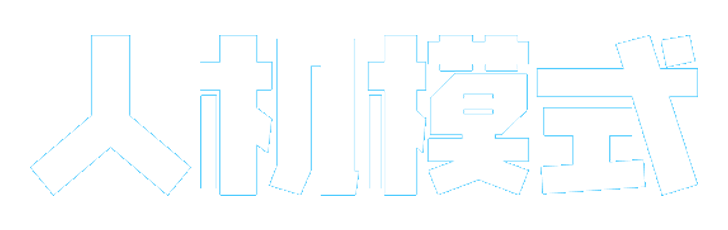
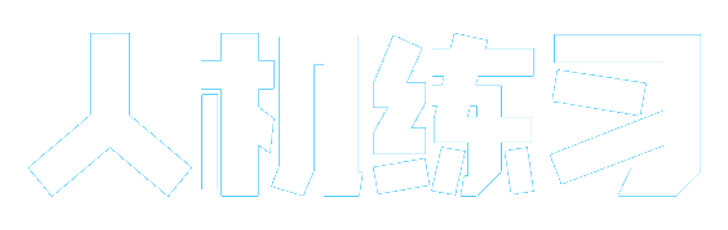
添加艺术字标题，调整返回按钮位置

diff --git a/src/1037suduko_wxgame/js/default.thm.js b/src/1037suduko_wxgame/js/default.thm.js
@@ -288,7 +288,7 @@ var egret = window.egret;window.skins=window.skins||{};
 		
 		this.height = 1136;
 		this.width = 640;
-		this.elementsContent = [this._Image1_i(),this._Label1_i(),this.quit_to_PC_i()];
+		this.elementsContent = [this._Image1_i(),this._Image2_i(),this.quit_to_PC_i()];
 	}
 	var _proto = challengeSkin.prototype;
 
@@ -304,17 +304,14 @@ var egret = window.egret;window.skins=window.skins||{};
 		t.y = -157;
 		return t;
 	};
-	_proto._Label1_i = function () {
-		var t = new eui.Label();
-		t.anchorOffsetX = 0;
-		t.anchorOffsetY = 0;
-		t.height = 130;
-		t.text = "挑战模式";
-		t.textAlign = "center";
-		t.verticalAlign = "middle";
-		t.width = 204;
-		t.x = 222;
-		t.y = 204;
+	_proto._Image2_i = function () {
+		var t = new eui.Image();
+		t.anchorOffsetX = 150;
+		t.height = 100;
+		t.source = "chanllenge_title";
+		t.width = 300;
+		t.x = 320;
+		t.y = 40;
 		return t;
 	};
 	_proto.quit_to_PC_i = function () {
@@ -323,11 +320,13 @@ var egret = window.egret;window.skins=window.skins||{};
 		t.alpha = 0.8;
 		t.anchorOffsetX = 0;
 		t.anchorOffsetY = 0;
-		t.height = 57;
-		t.label = "返回";
-		t.width = 136;
-		t.x = 250;
-		t.y = 881;
+		t.height = 40;
+		t.label = "<";
+		t.scaleX = 2;
+		t.scaleY = 2;
+		t.width = 40;
+		t.x = 30;
+		t.y = 30;
 		return t;
 	};
 	return challengeSkin;
@@ -351,7 +350,7 @@ var egret = window.egret;window.skins=window.skins||{};
 		
 		this.height = 1136;
 		this.width = 640;
-		this.elementsContent = [this._Image1_i(),this.quit_to_PC_i(),this._Label1_i(),this.sudokoTable_i(),this.submit_i(),this.easy_i(),this.medium_i(),this.hard_i(),this.mode_id_i()];
+		this.elementsContent = [this._Image1_i(),this.quit_to_PC_i(),this._Image2_i(),this.sudokoTable_i(),this.submit_i(),this.easy_i(),this.medium_i(),this.hard_i(),this.mode_id_i()];
 	}
 	var _proto = educationSkin.prototype;
 
@@ -373,24 +372,23 @@ var egret = window.egret;window.skins=window.skins||{};
 		t.alpha = 0.8;
 		t.anchorOffsetX = 0;
 		t.anchorOffsetY = 0;
-		t.height = 57;
-		t.label = "返回";
-		t.width = 136;
-		t.x = 250;
-		t.y = 881;
+		t.height = 40;
+		t.label = "<";
+		t.scaleX = 2;
+		t.scaleY = 2;
+		t.width = 40;
+		t.x = 30;
+		t.y = 30;
 		return t;
 	};
-	_proto._Label1_i = function () {
-		var t = new eui.Label();
-		t.anchorOffsetX = 160;
-		t.bold = true;
-		t.height = 40;
-		t.text = "新手教程";
-		t.textAlign = "center";
-		t.verticalAlign = "middle";
-		t.width = 320;
+	_proto._Image2_i = function () {
+		var t = new eui.Image();
+		t.anchorOffsetX = 150;
+		t.height = 100;
+		t.source = "education_title";
+		t.width = 300;
 		t.x = 320;
-		t.y = 30;
+		t.y = 40;
 		return t;
 	};
 	_proto.sudokoTable_i = function () {
@@ -468,7 +466,7 @@ var egret = window.egret;window.skins=window.skins||{};
 		
 		this.height = 1136;
 		this.width = 640;
-		this.elementsContent = [this._Image1_i(),this.quit_to_main_i(),this.submit_i(),this.sudokoTable_i(),this._Label1_i()];
+		this.elementsContent = [this._Image1_i(),this.quit_to_main_i(),this.submit_i(),this.sudokoTable_i(),this._Image2_i()];
 	}
 	var _proto = game_test1Skin.prototype;
 
@@ -488,13 +486,15 @@ var egret = window.egret;window.skins=window.skins||{};
 		var t = new eui.Button();
 		this.quit_to_main = t;
 		t.alpha = 0.8;
-		t.anchorOffsetX = 70;
+		t.anchorOffsetX = 0;
 		t.anchorOffsetY = 0;
-		t.height = 60;
-		t.label = "返回";
-		t.width = 140;
-		t.x = 320;
-		t.y = 887;
+		t.height = 30;
+		t.label = "<";
+		t.scaleX = 2;
+		t.scaleY = 2;
+		t.width = 30;
+		t.x = 40;
+		t.y = 40;
 		return t;
 	};
 	_proto.submit_i = function () {
@@ -517,17 +517,14 @@ var egret = window.egret;window.skins=window.skins||{};
 		t.y = 120;
 		return t;
 	};
-	_proto._Label1_i = function () {
-		var t = new eui.Label();
-		t.anchorOffsetX = 160;
-		t.bold = true;
-		t.height = 40;
-		t.text = "首届挑战赛";
-		t.textAlign = "center";
-		t.verticalAlign = "middle";
-		t.width = 320;
+	_proto._Image2_i = function () {
+		var t = new eui.Image();
+		t.anchorOffsetX = 185;
+		t.height = 100;
+		t.source = "championship_title";
+		t.width = 370;
 		t.x = 320;
-		t.y = 30;
+		t.y = 40;
 		return t;
 	};
 	return game_test1Skin;
@@ -585,11 +582,13 @@ var egret = window.egret;window.skins=window.skins||{};
 		var t = new eui.Button();
 		this.new_man_b = t;
 		t.alpha = 0.8;
-		t.anchorOffsetX = 150;
-		t.anchorOffsetY = 40;
-		t.height = 80;
+		t.anchorOffsetX = 75;
+		t.anchorOffsetY = 20;
+		t.height = 40;
 		t.label = "新手教程";
-		t.width = 300;
+		t.scaleX = 2;
+		t.scaleY = 2;
+		t.width = 150;
 		t.x = 320;
 		t.y = 580;
 		return t;
@@ -598,11 +597,13 @@ var egret = window.egret;window.skins=window.skins||{};
 		var t = new eui.Button();
 		this.randam_sb = t;
 		t.alpha = 0.8;
-		t.anchorOffsetX = 150;
-		t.anchorOffsetY = 40;
-		t.height = 80;
+		t.anchorOffsetX = 75;
+		t.anchorOffsetY = 20;
+		t.height = 40;
 		t.label = "随机数独";
-		t.width = 300;
+		t.scaleX = 2;
+		t.scaleY = 2;
+		t.width = 150;
 		t.x = 320;
 		t.y = 740;
 		return t;
@@ -611,11 +612,13 @@ var egret = window.egret;window.skins=window.skins||{};
 		var t = new eui.Button();
 		this.soduko_chb = t;
 		t.alpha = 0.8;
-		t.anchorOffsetX = 150;
-		t.anchorOffsetY = 40;
-		t.height = 80;
+		t.anchorOffsetX = 75;
+		t.anchorOffsetY = 20;
+		t.height = 40;
 		t.label = "数独闯关";
-		t.width = 300;
+		t.scaleX = 2;
+		t.scaleY = 2;
+		t.width = 150;
 		t.x = 320;
 		t.y = 900;
 		return t;
@@ -679,11 +682,13 @@ var egret = window.egret;window.skins=window.skins||{};
 		var t = new eui.Button();
 		this.random_mb = t;
 		t.alpha = 0.8;
-		t.anchorOffsetX = 150;
-		t.anchorOffsetY = 40;
-		t.height = 80;
+		t.anchorOffsetX = 75;
+		t.anchorOffsetY = 20;
+		t.height = 40;
 		t.label = "随机匹配";
-		t.width = 300;
+		t.scaleX = 2;
+		t.scaleY = 2;
+		t.width = 150;
 		t.x = 320;
 		t.y = 580;
 		return t;
@@ -692,11 +697,13 @@ var egret = window.egret;window.skins=window.skins||{};
 		var t = new eui.Button();
 		this.open_house = t;
 		t.alpha = 0.8;
-		t.anchorOffsetX = 150;
-		t.anchorOffsetY = 40;
-		t.height = 80;
+		t.anchorOffsetX = 75;
+		t.anchorOffsetY = 20;
+		t.height = 40;
 		t.label = "开房间";
-		t.width = 300;
+		t.scaleX = 2;
+		t.scaleY = 2;
+		t.width = 150;
 		t.x = 320;
 		t.y = 740;
 		return t;
@@ -705,11 +712,13 @@ var egret = window.egret;window.skins=window.skins||{};
 		var t = new eui.Button();
 		this.rank = t;
 		t.alpha = 0.8;
-		t.anchorOffsetX = 150;
-		t.anchorOffsetY = 40;
-		t.height = 80;
-		t.label = "天梯";
-		t.width = 300;
+		t.anchorOffsetX = 75;
+		t.anchorOffsetY = 20;
+		t.height = 40;
+		t.label = "天梯模式";
+		t.scaleX = 2;
+		t.scaleY = 2;
+		t.width = 150;
 		t.x = 320;
 		t.y = 900;
 		return t;
@@ -749,7 +758,7 @@ var egret = window.egret;window.skins=window.skins||{};
 		
 		this.height = 1136;
 		this.width = 640;
-		this.elementsContent = [this._Image1_i(),this._Label1_i(),this.quit_to_PC_i()];
+		this.elementsContent = [this._Image1_i(),this.quit_to_PC_i(),this._Image2_i()];
 	}
 	var _proto = randomSkin.prototype;
 
@@ -765,30 +774,29 @@ var egret = window.egret;window.skins=window.skins||{};
 		t.y = -157;
 		return t;
 	};
-	_proto._Label1_i = function () {
-		var t = new eui.Label();
-		t.anchorOffsetX = 0;
-		t.anchorOffsetY = 0;
-		t.height = 130;
-		t.text = "随机数独";
-		t.textAlign = "center";
-		t.verticalAlign = "middle";
-		t.width = 204;
-		t.x = 222;
-		t.y = 204;
-		return t;
-	};
 	_proto.quit_to_PC_i = function () {
 		var t = new eui.Button();
 		this.quit_to_PC = t;
 		t.alpha = 0.8;
 		t.anchorOffsetX = 0;
 		t.anchorOffsetY = 0;
-		t.height = 57;
-		t.label = "返回";
-		t.width = 136;
-		t.x = 250;
-		t.y = 881;
+		t.height = 40;
+		t.label = "<";
+		t.scaleX = 2;
+		t.scaleY = 2;
+		t.width = 40;
+		t.x = 30;
+		t.y = 30;
+		return t;
+	};
+	_proto._Image2_i = function () {
+		var t = new eui.Image();
+		t.anchorOffsetX = 150;
+		t.height = 100;
+		t.source = "random_title";
+		t.width = 300;
+		t.x = 320;
+		t.y = 40;
 		return t;
 	};
 	return randomSkin;
@@ -821,12 +829,14 @@ var egret = window.egret;window.skins=window.skins||{};
 		var t = new eui.Button();
 		this.StartPlay = t;
 		t.alpha = 0.8;
-		t.anchorOffsetX = 160;
+		t.anchorOffsetX = 80;
 		t.anchorOffsetY = 0;
 		t.enable = true;
-		t.height = 80;
+		t.height = 40;
 		t.label = "人机练习";
-		t.width = 320;
+		t.scaleX = 2;
+		t.scaleY = 2;
+		t.width = 160;
 		t.x = 320;
 		t.y = 660;
 		return t;
@@ -835,11 +845,13 @@ var egret = window.egret;window.skins=window.skins||{};
 		var t = new eui.Button();
 		this.StartPlay1 = t;
 		t.alpha = 0.8;
-		t.anchorOffsetX = 160;
+		t.anchorOffsetX = 80;
 		t.anchorOffsetY = 0;
-		t.height = 80;
+		t.height = 40;
 		t.label = "匹配模式";
-		t.width = 320;
+		t.scaleX = 2;
+		t.scaleY = 2;
+		t.width = 160;
 		t.x = 320;
 		t.y = 780;
 		return t;
@@ -848,11 +860,13 @@ var egret = window.egret;window.skins=window.skins||{};
 		var t = new eui.Button();
 		this.StartPlay2 = t;
 		t.alpha = 0.8;
-		t.anchorOffsetX = 160;
+		t.anchorOffsetX = 80;
 		t.anchorOffsetY = 0;
-		t.height = 80;
+		t.height = 40;
 		t.label = "比赛";
-		t.width = 320;
+		t.scaleX = 2;
+		t.scaleY = 2;
+		t.width = 160;
 		t.x = 320;
 		t.y = 900;
 		return t;
